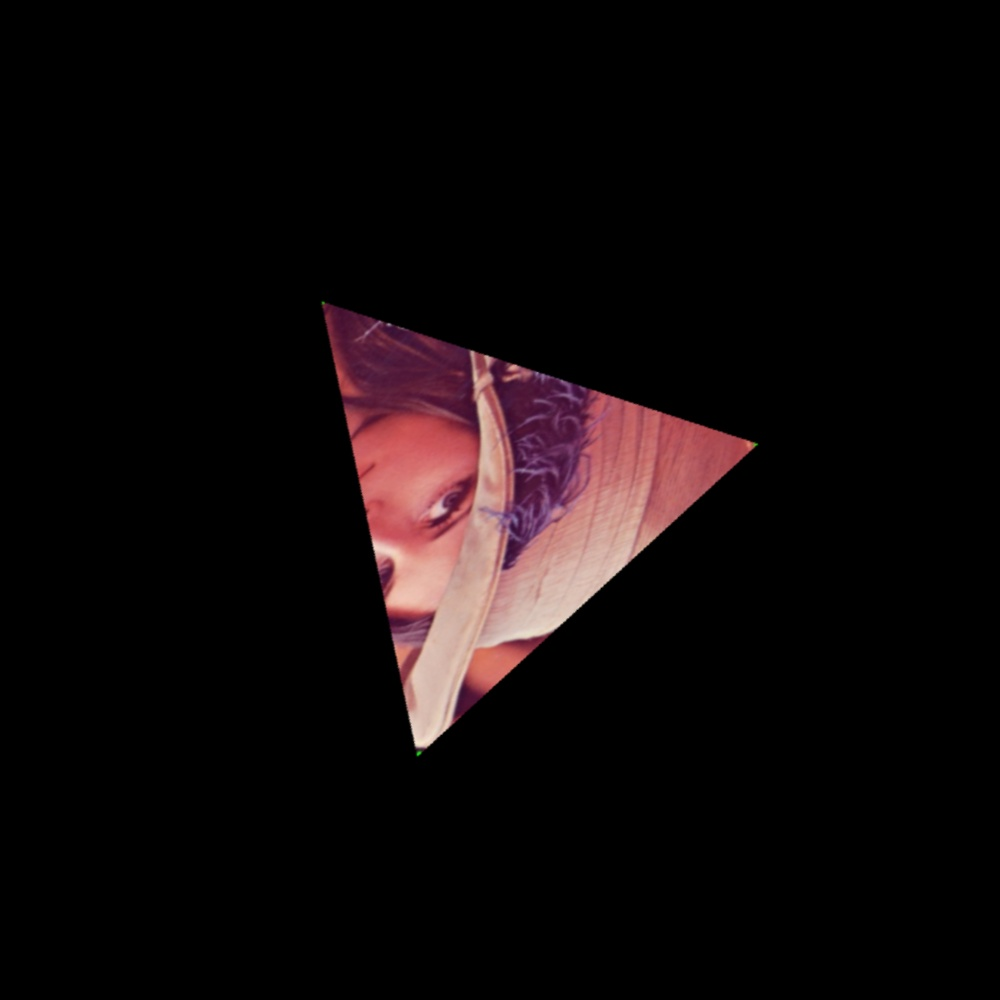
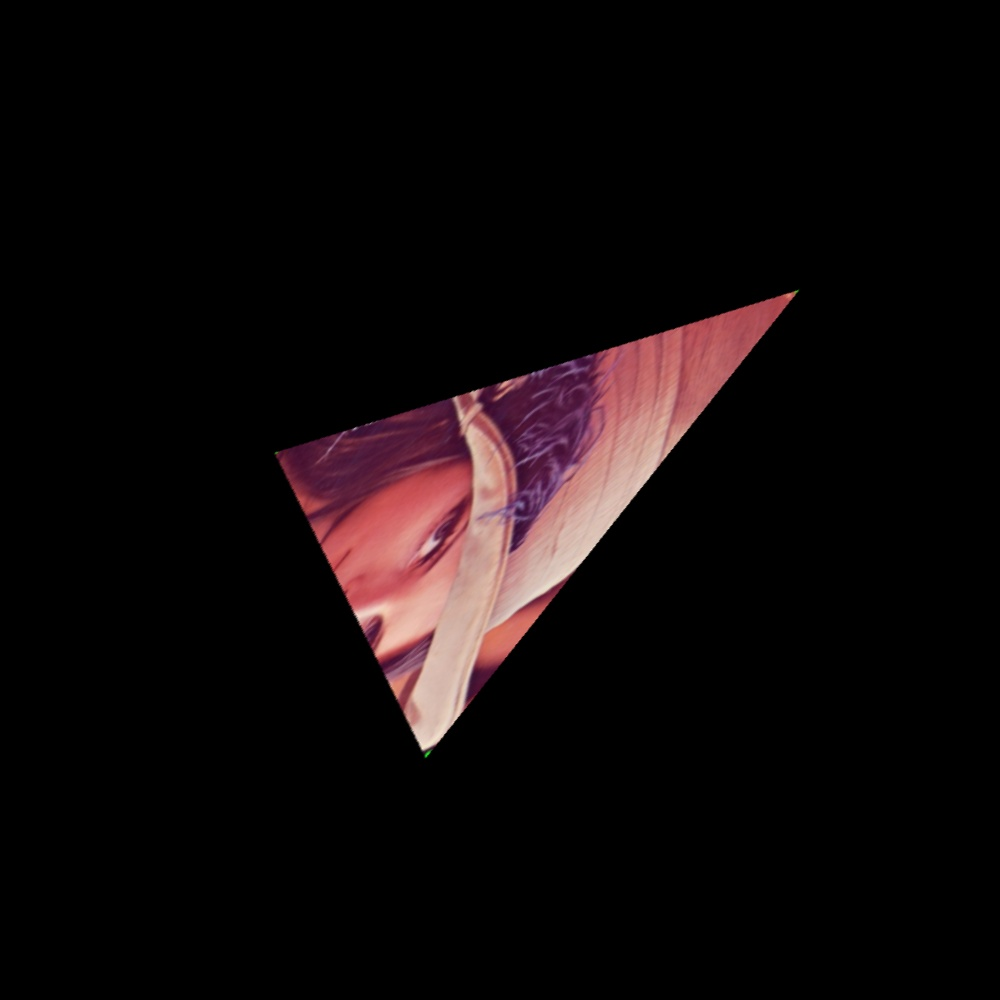
there's a bug somewhere.....can't tell where it is but we increased the number of rounds

Changed region(s): [[0.279, 0.279, 0.806, 0.775]]

diff --git a/scaleStuff.py b/scaleStuff.py
@@ -159,19 +159,22 @@ def strip(shape):
 
 ################now lets minimize it##############
 
-def getValuesBetween(x1,x2,y1,y2,inShape, divForTheScaler):
+def getValuesBetween(x1,x2,y1,y2,inShape, divForTheScaler, divForTheDegs):
 	ret = []
 	for i in xrange(x1,x2):
 		for j in xrange(y1,y2):
 			ival = float((i*1.0)/divForTheScaler)
-			val = calcDiffSquared(j, ival, inShape)
-			ret.append([val,['scaler',ival],['angle',j]])
+			jval = float((j*1.0)/divForTheDegs)
+#			print jval
+			val = calcDiffSquared(jval, ival, inShape)
+			ret.append([val,['scaler',ival],['angle',jval]])
 
 	return ret
 
 def getLeast(shape):
-	divForTheScaler = 16
-	vals = getValuesBetween(1,60,0,359,shape, divForTheScaler)
+	divForTheDegs = 8
+	divForTheScaler = 64
+	vals = getValuesBetween(200,300,0,1440,shape, divForTheScaler, divForTheDegs)
 	vals.sort(key=lambda tup: tup[0])  # sorts in place
 	print "vals"
 #	print vals
@@ -180,8 +183,8 @@ def getLeast(shape):
 #	for val in vals:
 #		print val
 	#print calcDiffSquared(135, 2, shape3)
-	scalar = vals[1][1][1]
-	angle = vals[1][2][1]
+	scalar = vals[0][1][1]
+	angle = vals[0][2][1]
 	return angle, scalar
 
 def normaliseShape(shape):
@@ -396,8 +399,8 @@ def getTheGreenPointsImage(img):
 	res = g
 	junk,g2mask = cv2.threshold(g,210,255,cv2.THRESH_BINARY)
 	
-	cv2.imshow("greenPoints", g2mask)
-	cv2.waitKey(0)	
+	#cv2.imshow("greenPoints", g2mask)
+	#cv2.waitKey(0)	
 
 	junk,bImask = cv2.threshold(b,100,255,cv2.THRESH_BINARY)
 	bImask = cv2.bitwise_not(bImask)
@@ -471,9 +474,10 @@ def main(imgName):
 	image = cv2.imread("./"+name+".jpg")
 
 	res = image
-	tempRes = getTheGreenPointsImage(res)
-	cv2.imshow("greenPoints", tempRes)
-	cv2.waitKey(0)	
+	
+	#tempRes = getTheGreenPointsImage(res)
+	#cv2.imshow("greenPoints", tempRes)
+	#cv2.waitKey(0)	
 
 	shape = relativePoints_getThePositionOfGreenPoints(res)
 
@@ -514,8 +518,8 @@ def main(imgName):
 
 ######################################################################
 
-#main("testImage1")
-#main("testImage2")
+main("testImage1")
+main("testImage2")
 main("extreme")
 
 
